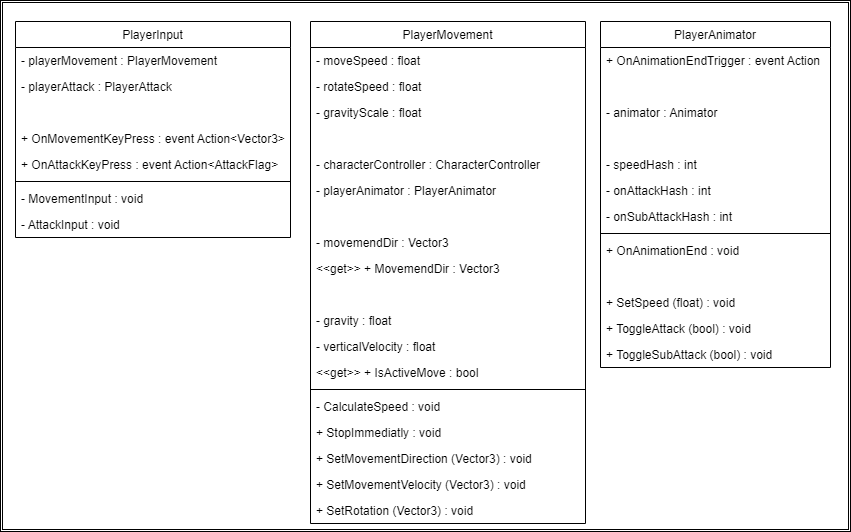
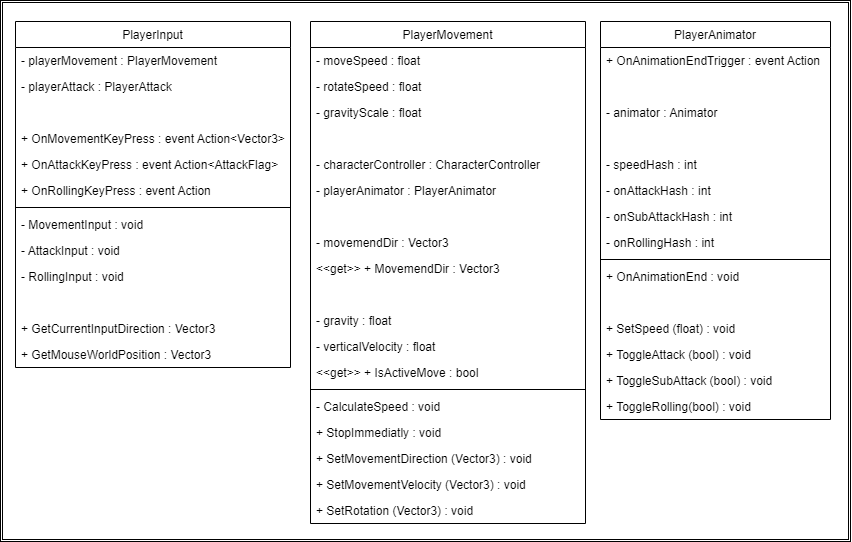
attack by mouse pos

Changed region(s): [[0.0306, 0.0, 1.0, 1.0], [0.7027, 0.1805, 0.8555, 0.2406], [0.0306, 0.1504, 0.2139, 0.1805]]

diff --git a/Assets/01. Scripts/Player/PlayerMovement.cs b/Assets/01. Scripts/Player/PlayerMovement.cs
@@ -12,18 +12,22 @@ public class PlayerMovement : MonoBehaviour
     private Vector3 movementDir = Vector3.zero;
     public Vector3 MovementDir => movementDir;
 
+    private Quaternion lookDirection = Quaternion.identity;
+
     private Vector3 movementVelocity = Vector3.zero;
 
     private float gravity = -9.81f;
     private float verticalVelocity = 0f;
 
     public bool IsActiveMove { get; set; }
+    public bool IsActiveRotate { get; set; }
 
     private void Awake()
     {
         characterController = GetComponent<CharacterController>();
         playerAnimator = transform.Find("Model").GetComponent<PlayerAnimator>();
         IsActiveMove = true;
+        IsActiveRotate = true;
     }
 
     private void FixedUpdate()
@@ -47,8 +51,20 @@ public class PlayerMovement : MonoBehaviour
         playerAnimator?.SetSpeed(movementDir.sqrMagnitude);
 
         movementVelocity *= moveSpeed * Time.fixedDeltaTime;
-        if (movementDir.sqrMagnitude > 0)
-            transform.rotation = Quaternion.Lerp(transform.rotation, Quaternion.LookRotation(movementVelocity), Time.fixedDeltaTime * rotateSpeed);
+        
+        // if (movementDir.sqrMagnitude > 0)
+        //     lookDir = Quaternion.Lerp(transform.rotation, Quaternion.LookRotation(movementVelocity), 0.5f);
+            
+        // transform.rotation = Quaternion.Lerp(transform.rotation, lookDir, Time.fixedDeltaTime * rotateSpeed);
+        if (IsActiveRotate)
+        {
+            if(movementDir.sqrMagnitude > 0)
+                transform.rotation = Quaternion.Lerp(transform.rotation, Quaternion.LookRotation(movementVelocity), Time.fixedDeltaTime * rotateSpeed);
+        }
+        else
+        {
+            transform.rotation = Quaternion.Lerp(transform.rotation, lookDirection, Time.fixedDeltaTime * rotateSpeed);
+        }
     }
 
     public void StopImmediatly()
@@ -60,11 +76,19 @@ public class PlayerMovement : MonoBehaviour
     public void SetMovementDirection(Vector3 value) => movementDir = value;
     public void SetMovementVelocity(Vector3 value) => movementVelocity = value;
 
-    public void SetRotation(Vector3 target)
+    public void SetRotationImmediatly(Vector3 target)
     {
         Vector3 dir = target - transform.position;
         dir.y = transform.position.y;
 
         transform.rotation = Quaternion.LookRotation(dir);
+    }
+
+    public void SetRotation(Vector3 target)
+    {
+        Vector3 dir = target - transform.position;
+        dir.y = transform.position.y;
+
+        lookDirection = Quaternion.LookRotation(dir);
     }
 }

diff --git a/Assets/01. Scripts/State/BaseAttackState.cs b/Assets/01. Scripts/State/BaseAttackState.cs
@@ -13,19 +13,23 @@ public class BaseAttackState : State
 
     public override void OnEnterState()
     {
+        playerMovement.IsActiveRotate = false;
         playerMovement.StopImmediatly();
+        playerMovement.SetRotation(playerInput.GetMouseWorldPosition());
+
         playerAttack.ActiveMainWeapon();
         
         playerAnimator.OnAnimationEndTrigger += OnAnimationEndHandle;
     }
 
-    public override void OnExitState()
-    {
-        playerAnimator.OnAnimationEndTrigger -= OnAnimationEndHandle;
-    }
-
     public override void UpdateState()
     {
+    }
+
+    public override void OnExitState()
+    {
+        playerMovement.IsActiveRotate = true;
+        playerAnimator.OnAnimationEndTrigger -= OnAnimationEndHandle;
     }
 
     public void OnAnimationEndHandle()

diff --git a/Assets/01. Scripts/State/SubAttackState.cs b/Assets/01. Scripts/State/SubAttackState.cs
@@ -13,19 +13,23 @@ public class SubAttackState : State
 
     public override void OnEnterState()
     {
+        playerMovement.IsActiveRotate = false;
         playerMovement.StopImmediatly();
+        playerMovement.SetRotation(playerInput.GetMouseWorldPosition());
+
         playerAttack.ActiveSubWeapon();
         
         playerAnimator.OnAnimationEndTrigger += OnAnimationEndHandle;
     }
 
-    public override void OnExitState()
-    {
-        playerAnimator.OnAnimationEndTrigger -= OnAnimationEndHandle;
-    }
-
     public override void UpdateState()
     {
+    }
+
+    public override void OnExitState()
+    {
+        playerMovement.IsActiveRotate = true;
+        playerAnimator.OnAnimationEndTrigger -= OnAnimationEndHandle;
     }
 
     public void OnAnimationEndHandle()

diff --git a/Assets/01. Scripts/Player/PlayerInput.cs b/Assets/01. Scripts/Player/PlayerInput.cs
@@ -34,7 +34,6 @@ public class PlayerInput : MonoBehaviour
         currentInputDirection = new Vector3(h, 0, v);
 
         OnMovementKeyPress?.Invoke(currentInputDirection);
-        //playerMovement.SetMovementVelocity(new Vector3(h, 0, v));
     }
 
     private void AttackInput()
@@ -52,4 +51,12 @@ public class PlayerInput : MonoBehaviour
     }
 
     public Vector3 GetCurrentInputDirection() => currentInputDirection.normalized;
+    public Vector3 GetMouseWorldPosition() 
+    {
+        Ray ray = DEFINE.MainCam.ScreenPointToRay(Input.mousePosition);
+        RaycastHit hit;
+        bool result = Physics.Raycast(ray, out hit, DEFINE.MainCam.farClipPlane, DEFINE.GroundLayer);
+
+        return (result ? hit.point : Vector3.zero);
+    }
 }

diff --git a/Assets/01. Scripts/State/RollingState.cs b/Assets/01. Scripts/State/RollingState.cs
@@ -11,11 +11,11 @@ public class RollingState : State
         playerMovement.StopImmediatly();
         playerMovement.IsActiveMove = false;
 
-        Vector3 direction = Quaternion.Euler(0, -45f, 0) * playerInput.GetCurrentInputDirection();
+        Vector3 direction = Quaternion.Euler(0, -45f, 0) * playerInput.GetCurrentInputDirection().normalized;
         if(direction.sqrMagnitude <= 0)
             direction = stateHandler.transform.forward;
 
-        playerMovement.SetRotation(direction + stateHandler.transform.position);
+        playerMovement.SetRotationImmediatly(direction + stateHandler.transform.position);
         playerMovement.SetMovementVelocity(direction * rollingSpeed);
 
         playerAnimator.ToggleRolling(true);

diff --git a/Assets/01. Scripts/Core/DEFINE.cs b/Assets/01. Scripts/Core/DEFINE.cs
@@ -1,4 +1,17 @@
+using UnityEngine;
+
 public class DEFINE
 {
+    public const int GroundLayer = 1 << 6;
     public const int LuxLayer = 1 << 8;
+
+    private static Camera mainCam = null;
+    public static Camera MainCam {
+        get {
+            if(mainCam == null)
+                mainCam = Camera.main;
+
+            return mainCam;
+        }
+    }
 }
